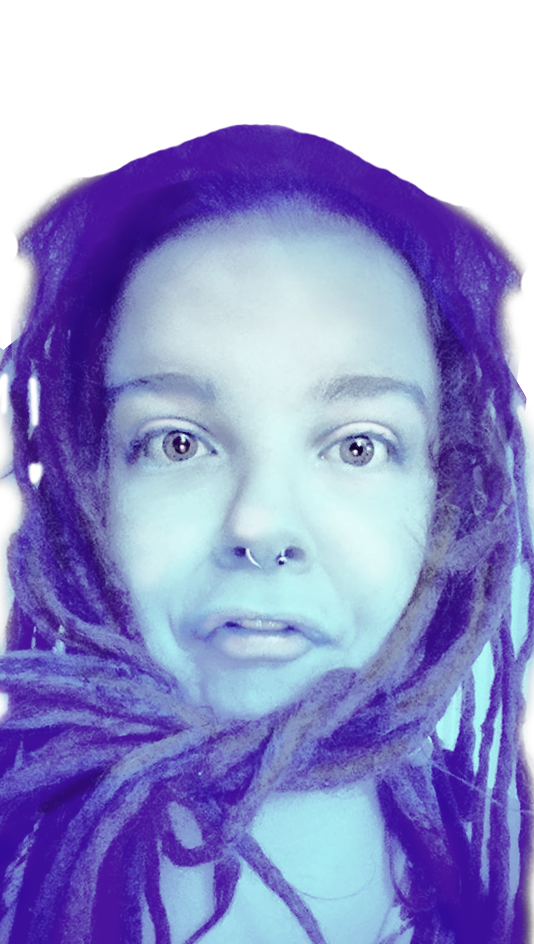
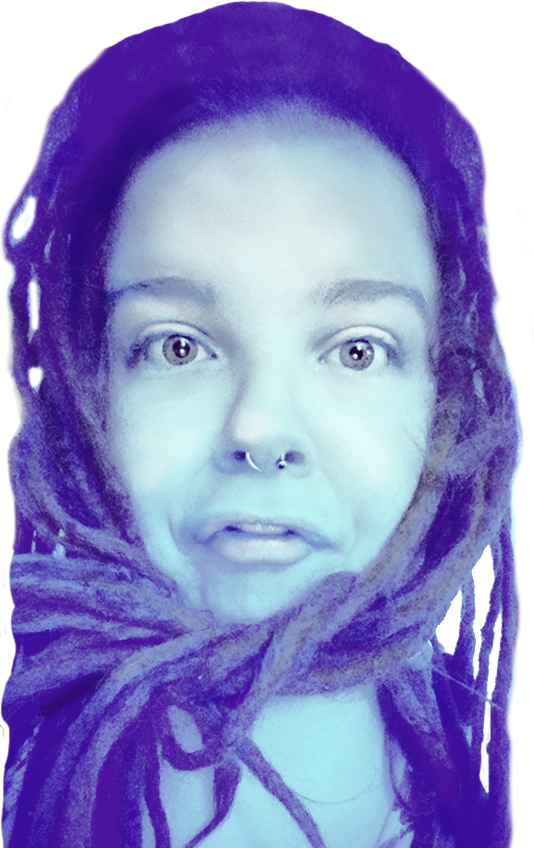
replace photo, adjust about text

diff --git a/src/styles/css/App.css b/src/styles/css/App.css
@@ -168,7 +168,7 @@ a {
   position: absolute;
   opacity: 0.9;
   top: 22%;
-  left: 0%;
+  left: 1%;
   width: 100%;
   z-index: -1; }
   @media screen and (min-width: 768px) {
@@ -180,7 +180,7 @@ a {
       width: 40%; } }
   @media screen and (min-width: 1440px) {
     .about-img {
-      width: 25%; } }
+      width: 27%; } }
 
 .creative-divs {
   position: absolute;
@@ -202,51 +202,61 @@ a {
     font-size: 1.5rem;
     font-weight: 600;
     color: #fafafa;
-    transition: transform 600ms cubic-bezier(0.87, -0.41, 0.19, 1.44); }
+    transition: all 500ms cubic-bezier(0.87, -0.41, 0.19, 1.44);
+    transition-property: transform, box-shadow; }
     @media screen and (min-width: 768px) {
       .creative-divs > div {
-        height: 5rem;
+        height: 3.5rem;
         font-size: 2.5rem;
         mix-blend-mode: multiply; } }
-  .creative-divs .creative-div-one {
-    background-color: turquoise;
-    width: 7rem;
-    border-radius: 1rem; }
-    .creative-divs .creative-div-one:hover {
-      transform: translateY(1.5rem); }
-    @media screen and (min-width: 768px) {
-      .creative-divs .creative-div-one {
-        width: 13rem; } }
-  .creative-divs .creative-div-two {
-    background-color: #dd27dd;
-    width: 12rem; }
-    .creative-divs .creative-div-two:hover {
-      transform: translateX(4rem); }
-    @media screen and (min-width: 768px) {
-      .creative-divs .creative-div-two {
-        width: 18rem; } }
-  .creative-divs .creative-div-three {
-    background-color: #a327dd;
-    width: 10rem;
-    border-radius: 1rem; }
-    .creative-divs .creative-div-three:hover {
-      transform: translateY(-2rem); }
-  .creative-divs .creative-div-four {
-    background-color: turquoise;
-    width: 15rem; }
-    .creative-divs .creative-div-four:hover {
-      transform: rotate(15deg); }
-  .creative-divs .creative-div-five {
-    background-color: #723de0;
-    width: 12rem; }
-    .creative-divs .creative-div-five:hover {
-      transform: translateX(-3rem); }
-  .creative-divs .creative-div-six {
-    background-color: #dd27dd;
-    border-radius: 1rem;
-    width: 9rem; }
-    .creative-divs .creative-div-six:hover {
-      transform: translateY(2rem); }
+
+.creative-div-one {
+  background-color: turquoise;
+  width: 7rem; }
+  .creative-div-one:hover {
+    transform: translateY(1.5rem);
+    box-shadow: 0 0 100px turquoise; }
+  @media screen and (min-width: 768px) {
+    .creative-div-one {
+      width: 13rem; } }
+
+.creative-div-two {
+  background-color: #dd27dd;
+  width: 12rem; }
+  .creative-div-two:hover {
+    transform: translateX(4rem);
+    box-shadow: 0 0 100px #dd27dd; }
+  @media screen and (min-width: 768px) {
+    .creative-div-two {
+      width: 18rem; } }
+
+.creative-div-three {
+  background-color: #a327dd;
+  width: 10rem; }
+  .creative-div-three:hover {
+    transform: translateY(-2rem);
+    box-shadow: 0 0 100px #a327dd; }
+
+.creative-div-four {
+  background-color: turquoise;
+  width: 15rem; }
+  .creative-div-four:hover {
+    transform: rotate(15deg);
+    box-shadow: 0 0 100px turquoise; }
+
+.creative-div-five {
+  background-color: #723de0;
+  width: 12rem; }
+  .creative-div-five:hover {
+    transform: translateX(-3rem);
+    box-shadow: 0 0 100px #6227dd; }
+
+.creative-div-six {
+  background-color: #dd27dd;
+  width: 9rem; }
+  .creative-div-six:hover {
+    transform: translateY(2rem);
+    box-shadow: 0 0 100px #dd27dd; }
 
 .about-circle-wrapper {
   margin-top: 10rem;

diff --git a/src/styles/css/index.css b/src/styles/css/index.css
@@ -180,7 +180,7 @@ a {
       width: 40%; } }
   @media screen and (min-width: 1440px) {
     .about-img {
-      width: 25%; } }
+      width: 27%; } }
 
 .creative-divs {
   position: absolute;
@@ -202,51 +202,61 @@ a {
     font-size: 1.5rem;
     font-weight: 600;
     color: #fafafa;
-    transition: transform 600ms cubic-bezier(0.87, -0.41, 0.19, 1.44); }
+    transition: all 500ms cubic-bezier(0.87, -0.41, 0.19, 1.44);
+    transition-property: transform, box-shadow; }
     @media screen and (min-width: 768px) {
       .creative-divs > div {
-        height: 5rem;
+        height: 3.5rem;
         font-size: 2.5rem;
         mix-blend-mode: multiply; } }
-  .creative-divs .creative-div-one {
-    background-color: turquoise;
-    width: 7rem;
-    border-radius: 1rem; }
-    .creative-divs .creative-div-one:hover {
-      transform: translateY(1.5rem); }
-    @media screen and (min-width: 768px) {
-      .creative-divs .creative-div-one {
-        width: 13rem; } }
-  .creative-divs .creative-div-two {
-    background-color: #dd27dd;
-    width: 12rem; }
-    .creative-divs .creative-div-two:hover {
-      transform: translateX(4rem); }
-    @media screen and (min-width: 768px) {
-      .creative-divs .creative-div-two {
-        width: 18rem; } }
-  .creative-divs .creative-div-three {
-    background-color: #a327dd;
-    width: 10rem;
-    border-radius: 1rem; }
-    .creative-divs .creative-div-three:hover {
-      transform: translateY(-2rem); }
-  .creative-divs .creative-div-four {
-    background-color: turquoise;
-    width: 15rem; }
-    .creative-divs .creative-div-four:hover {
-      transform: rotate(15deg); }
-  .creative-divs .creative-div-five {
-    background-color: #723de0;
-    width: 12rem; }
-    .creative-divs .creative-div-five:hover {
-      transform: translateX(-3rem); }
-  .creative-divs .creative-div-six {
-    background-color: #dd27dd;
-    border-radius: 1rem;
-    width: 9rem; }
-    .creative-divs .creative-div-six:hover {
-      transform: translateY(2rem); }
+
+.creative-div-one {
+  background-color: turquoise;
+  width: 7rem; }
+  .creative-div-one:hover {
+    transform: translateY(1.5rem);
+    box-shadow: 0 0 100px turquoise; }
+  @media screen and (min-width: 768px) {
+    .creative-div-one {
+      width: 13rem; } }
+
+.creative-div-two {
+  background-color: #dd27dd;
+  width: 12rem; }
+  .creative-div-two:hover {
+    transform: translateX(4rem);
+    box-shadow: 0 0 100px #dd27dd; }
+  @media screen and (min-width: 768px) {
+    .creative-div-two {
+      width: 18rem; } }
+
+.creative-div-three {
+  background-color: #a327dd;
+  width: 10rem; }
+  .creative-div-three:hover {
+    transform: translateY(-2rem);
+    box-shadow: 0 0 100px #a327dd; }
+
+.creative-div-four {
+  background-color: turquoise;
+  width: 15rem; }
+  .creative-div-four:hover {
+    transform: rotate(15deg);
+    box-shadow: 0 0 100px turquoise; }
+
+.creative-div-five {
+  background-color: #723de0;
+  width: 12rem; }
+  .creative-div-five:hover {
+    transform: translateX(-3rem);
+    box-shadow: 0 0 100px #6227dd; }
+
+.creative-div-six {
+  background-color: #dd27dd;
+  width: 9rem; }
+  .creative-div-six:hover {
+    transform: translateY(2rem);
+    box-shadow: 0 0 100px #dd27dd; }
 
 .about-circle-wrapper {
   margin-top: 10rem;

diff --git a/src/styles/sass/App.sass b/src/styles/sass/App.sass
@@ -193,7 +193,7 @@ a
   position: absolute
   opacity: .9
   top: 22%
-  left: 0%
+  left: 1%
   width: 100%
   z-index: -1
   @media screen and (min-width: 768px)
@@ -202,7 +202,7 @@ a
   @media screen and (min-width: 1024px)
     width: 40%
   @media screen and (min-width: 1440px)
-    width: 25%
+    width: 27%
 
 .creative-divs
   position: absolute
@@ -222,48 +222,53 @@ a
     font-size: 1.5rem
     font-weight: 600
     color: $body-background
-    transition: transform 600ms cubic-bezier(.87,-.41,.19,1.44)
+    transition: all 500ms cubic-bezier(.87,-.41,.19,1.44)
+    transition-property: transform, box-shadow
     @media screen and (min-width: 768px)
-      height: 5rem
+      height: 3.5rem
       font-size: 2.5rem
       mix-blend-mode: multiply
-  .creative-div-one
-    background-color: $teal
-    width: 7rem
-    border-radius: 1rem
-    &:hover
-      transform: translateY(1.5rem)
-    @media screen and (min-width: 768px)
-      width: 13rem
-  .creative-div-two
-    background-color: $pink
-    width: 12rem
-    &:hover
-      transform: translateX(4rem)
-    @media screen and (min-width: 768px)
-      width: 18rem
-  .creative-div-three
-    background-color: $medium-purple
-    width: 10rem
-    border-radius: 1rem
-    &:hover
-      transform: translateY(-2rem)
-  .creative-div-four
-    background-color: $teal
-    width: 15rem
-    &:hover
-      transform: rotate(15deg)
-  .creative-div-five
-    background-color: lighten($dark-purple, 5%)
-    width: 12rem
-    &:hover
-      transform: translateX(-3rem)
-  .creative-div-six
-    background-color: $pink
-    border-radius: 1rem
-    width: 9rem
-    &:hover
-      transform: translateY(2rem)
+
+.creative-div-one
+  background-color: $teal
+  width: 7rem
+  &:hover
+    transform: translateY(1.5rem)
+    box-shadow: 0 0 100px $teal
+  @media screen and (min-width: 768px)
+    width: 13rem
+.creative-div-two
+  background-color: $pink
+  width: 12rem
+  &:hover
+    transform: translateX(4rem)
+    box-shadow: 0 0 100px $pink
+  @media screen and (min-width: 768px)
+    width: 18rem
+.creative-div-three
+  background-color: $medium-purple
+  width: 10rem
+  &:hover
+    transform: translateY(-2rem)
+    box-shadow: 0 0 100px $medium-purple
+.creative-div-four
+  background-color: $teal
+  width: 15rem
+  &:hover
+    transform: rotate(15deg)
+    box-shadow: 0 0 100px $teal
+.creative-div-five
+  background-color: lighten($dark-purple, 5%)
+  width: 12rem
+  &:hover
+    transform: translateX(-3rem)
+    box-shadow: 0 0 100px $dark-purple
+.creative-div-six
+  background-color: $pink
+  width: 9rem
+  &:hover
+    transform: translateY(2rem)
+    box-shadow: 0 0 100px $pink
 
 .about-circle-wrapper
   margin-top: 10rem
